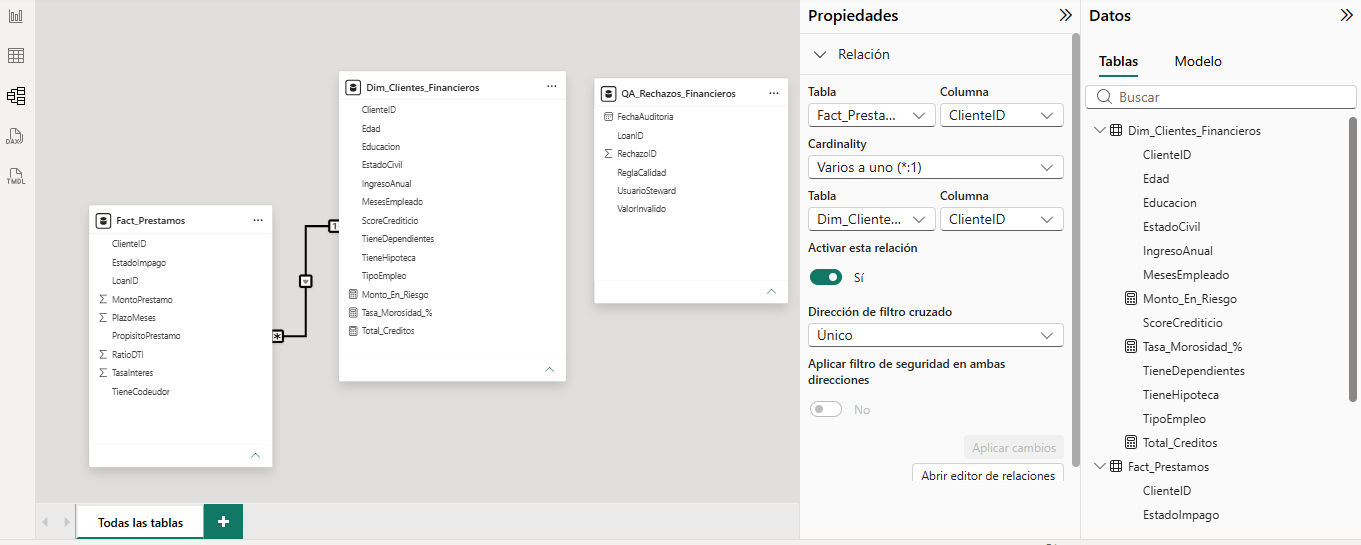
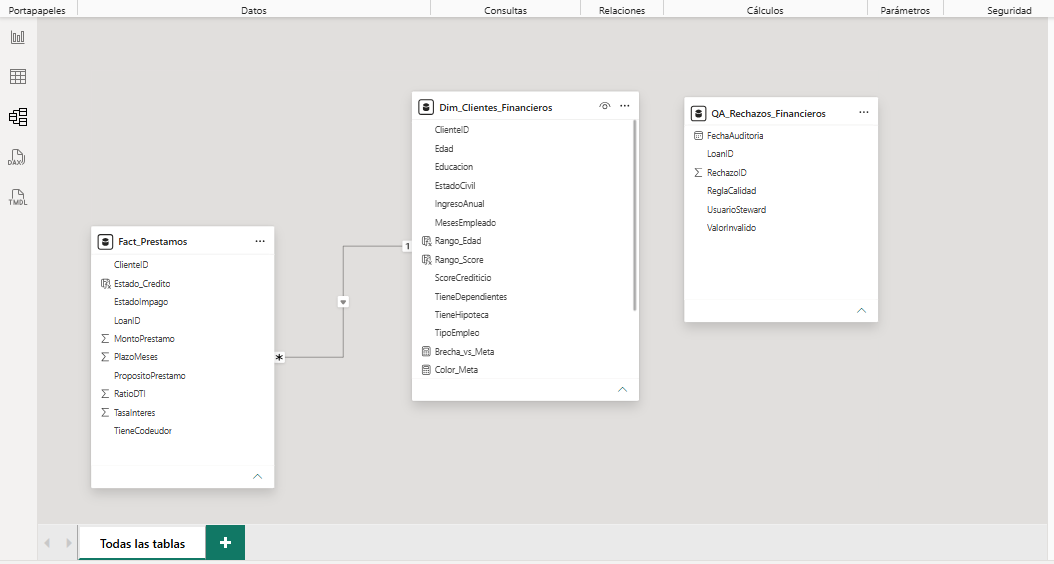
Corrige nombres de columnas y agrega página 2 del dashboard

diff --git a/README.md b/README.md
@@ -77,9 +77,50 @@ DIVIDE(
     [Total_Creditos],
     0
 )
+
+Meta_Morosidad = 0.10
+
+Brecha_vs_Meta = [Tasa_Morosidad_%] - [Meta_Morosidad]
+
+Estado_Meta =
+IF([Tasa_Morosidad_%] > [Meta_Morosidad], "▲ Sobre la meta", "▼ Bajo la meta")
+
+Color_Meta =
+IF([Tasa_Morosidad_%] > [Meta_Morosidad], "#E04B4B", "#2E9E5B")
 ```
 
-El dashboard muestra tres tarjetas (total de créditos, monto en riesgo y tasa de morosidad) y un gráfico de columnas con la distribución de créditos por propósito y estado de impago.
+Columnas calculadas para segmentar:
+
+```dax
+Rango_Score =
+SWITCH(
+    TRUE(),
+    Dim_Clientes_Financieros[ScoreCrediticio] < 500, "300-499",
+    Dim_Clientes_Financieros[ScoreCrediticio] < 600, "500-599",
+    Dim_Clientes_Financieros[ScoreCrediticio] < 700, "600-699",
+    "700-850"
+)
+
+Rango_Edad =
+SWITCH(
+    TRUE(),
+    Dim_Clientes_Financieros[Edad] < 30, "18-29",
+    Dim_Clientes_Financieros[Edad] < 40, "30-39",
+    Dim_Clientes_Financieros[Edad] < 50, "40-49",
+    Dim_Clientes_Financieros[Edad] < 60, "50-59",
+    "60+"
+)
+
+Estado_Credito = IF(Fact_Prestamos[EstadoImpago] = TRUE, "Impago", "Pagó")
+```
+
+El dashboard tiene dos páginas. El dataset no incluye fechas, así que el análisis se hace por segmentos y no por evolución en el tiempo.
+
+- **Página 1, Resumen:** tarjetas con total de créditos, monto en riesgo y tasa de morosidad, y un gráfico de columnas con el número de créditos por propósito y estado (Pagó/Impago).
+- **Página 2, Riesgo por segmentos:** tarjetas con la tasa de morosidad, la brecha frente a una meta del 10 % y el estado de la meta, más la morosidad por rango de score, tipo de empleo y rango de edad, con filtros por nivel educativo y propósito del préstamo.
+
+![Dashboard, página 1](docs/capturas/06_powerbi_dashboard.png)
+![Dashboard, página 2](docs/capturas/07_powerbi_riesgo_segmentos.png)
 
 ## Cifras de control
 
@@ -90,7 +131,7 @@ El dashboard muestra tres tarjetas (total de créditos, monto en riesgo y tasa d
 | Tasa de morosidad | 11.61 % |
 | Monto en riesgo | 4,285,312,531 |
 
-Los números se verificaron entre el CSV original, SQL Server y Power BI.
+Los números se verificaron entre el CSV original, SQL Server y Power BI. El dataset no indica la moneda del monto.
 
 ## Hallazgos
 
@@ -113,10 +154,30 @@ Tasa de morosidad por tipo de empleo:
 | Self-employed | 63,706 | 11.46 % |
 | Full-time | 63,656 | 9.46 % |
 
-- Los clientes **desempleados** tienen la morosidad más alta (13.55 %), unos 4 puntos por encima de quienes tienen empleo a tiempo completo (9.46 %).
-- Por propósito la diferencia es menor: **Business** es el más riesgoso (12.33 %) y **Home** el menos (10.23 %).
-- El **tipo de empleo** separa mejor el riesgo que el propósito del préstamo.
-- El dataset no tiene fechas, así que no se analiza la evolución en el tiempo.
+Tasa de morosidad por rango de score crediticio:
+
+| Rango de score | Créditos | Impagos | Morosidad |
+|---|---|---|---|
+| 300-499 | 93,029 | 11,883 | 12.77 % |
+| 500-599 | 46,454 | 5,494 | 11.83 % |
+| 600-699 | 46,434 | 5,190 | 11.18 % |
+| 700-850 | 69,430 | 7,086 | 10.21 % |
+
+Tasa de morosidad por rango de edad:
+
+| Rango de edad | Créditos | Impagos | Morosidad |
+|---|---|---|---|
+| 18-29 | 58,623 | 11,556 | 19.71 % |
+| 30-39 | 49,491 | 7,026 | 14.20 % |
+| 40-49 | 49,110 | 4,964 | 10.11 % |
+| 50-59 | 49,149 | 3,596 | 7.32 % |
+| 60+ | 48,974 | 2,511 | 5.13 % |
+
+- La **edad** es la variable que más separa el riesgo: los clientes de 18-29 años incumplen casi 4 veces más que los de 60+ (19.71 % frente a 5.13 %), una diferencia de unos 14.6 puntos.
+- Los clientes **desempleados** tienen la morosidad más alta por tipo de empleo (13.55 %), unos 4 puntos por encima de quienes tienen empleo a tiempo completo (9.46 %).
+- La morosidad baja a medida que sube el **score crediticio** (de 12.77 % a 10.21 %), pero la diferencia es moderada, de unos 2.6 puntos.
+- Por **propósito** la diferencia es la menor: Business es el más riesgoso (12.33 %) y Home el menos (10.23 %).
+- Son asociaciones observadas en este dataset, no relaciones de causa y efecto.
 
 Las consultas que generan estas tablas están al final de `sql/script_sql.sql`.
 
@@ -124,7 +185,7 @@ Las consultas que generan estas tablas están al final de `sql/script_sql.sql`.
 
 1. Descargar `Loan_default.csv` desde Kaggle y colocarlo en una carpeta `csv/` dentro del proyecto (por ejemplo, `C:\KaggleData\csv\`).
 2. Desde la raíz del proyecto, ejecutar `python python/limpiar_data.py` para generar `Loan_default_Limpio.csv` en la misma carpeta.
-3. Ejecutar `sql/script_sql.sql` en SQL Server Management Studio. La ruta del `BULK INSERT` asume `C:\KaggleData\csv\`; ajústala si usas otra.
+3. Ejecutar `sql/script_sql.sql` en SQL Server Management Studio. La ruta del `BULK INSERT` asume `C:\KaggleData\csv\`; ajústala si usas otra. El script elimina y vuelve a crear la base `DW_Riesgo_Financiero`, así que puede repetirse sin errores.
 4. Abrir `powerbi/dashboard_riesgo_financiero.pbix` en Power BI Desktop y actualizar el origen de datos hacia tu servidor local.
 
 ## Herramientas
